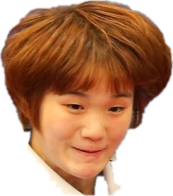
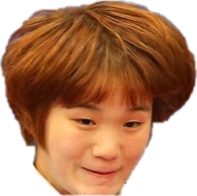
김민희: 너무 강력한 포핸드로 명칭 변경, 백핸드 얼굴 옷깃 제거, 포핸드 얼굴 위치/드라이브 자세 수정

diff --git a/index.html b/index.html
@@ -39,7 +39,7 @@ html,body{overscroll-behavior:none;touch-action:manipulation;-webkit-text-size-a
 <section id="su-p1"><h3 id="su-title">라켓을 고르세요</h3><div id="su-racket" class="su-opts"></div><div id="su-gear"><label>목판 <select id="su-blade"></select></label><label>러버 <select id="su-rubber"></select></label></div><p id="su-note"></p><div class="su-row"><button type="button" id="su-cancel" class="ghost">취소</button><button type="button" id="su-next">다음 →</button></div></section>
 <section id="su-p2" hidden><h3>상대 난이도를 고르세요</h3><div id="su-diff" class="su-opts"></div><div class="su-row"><button type="button" id="su-back" class="ghost">← 이전</button><button type="button" id="su-play">플레이 시작 ↗</button></div></section></dialog>
 <div id="overlay" class="overlay"><div class="start-card"><span class="pill">YOUR NEXT RALLY STARTS HERE</span><h2>잡고, 휘두르고,<br>넘겨보세요.</h2><p>공을 둘러싼 링이 줄어들어 라켓 크기 원에 딱 맞는 순간 스윙하세요.<br>공 오른쪽에서 스윙: 포핸드 (검정 러버)<br>공 왼쪽에서 스윙: 백핸드 (빨강 러버)<br>탭: 쇼트 (드라이브가 오면 블록) · 뜬 공에 스윙: 자동 스매시<br>내 서브: 탭으로 토스 → 떨어질 때 스윙</p><div id="char-pick" role="radiogroup" aria-label="캐릭터 선택"><button type="button" role="radio" data-char="jersey"><canvas width="96" height="96" aria-hidden="true"></canvas>휴고범</button><button type="button" role="radio" data-char="leesin"><canvas width="96" height="96" aria-hidden="true"></canvas>리신범</button><button type="button" role="radio" data-char="percival"><canvas width="96" height="96" aria-hidden="true"></canvas>퍼시벌</button><button type="button" role="radio" data-char="drunk"><canvas width="96" height="96" aria-hidden="true"></canvas>만취범</button><button type="button" role="radio" data-char="ajae"><canvas width="96" height="96" aria-hidden="true"></canvas>아재범</button><button type="button" role="radio" data-char="sleepy"><canvas width="96" height="96" aria-hidden="true"></canvas>꿀잠범</button><button type="button" role="radio" data-char="minhee"><canvas width="96" height="96" aria-hidden="true"></canvas>김민희</button></div><div id="rank-submit" hidden><div class="rank-row" hidden><input id="rank-name" maxlength="12" placeholder="닉네임 (12자)" autocomplete="nickname" aria-label="랭킹 닉네임"><button id="rank-send" type="button">랭킹 등록 🏆</button></div><small id="rank-msg" aria-live="polite"></small></div><div id="login-box"><button id="google-login" type="button"><svg viewBox="0 0 48 48" width="18" height="18" aria-hidden="true"><path fill="#EA4335" d="M24 9.5c3.5 0 6.6 1.2 9.1 3.6l6.8-6.8C35.8 2.5 30.3 0 24 0 14.6 0 6.6 5.4 2.7 13.3l7.9 6.1C12.5 13.6 17.8 9.5 24 9.5z"/><path fill="#4285F4" d="M46.1 24.6c0-1.6-.1-3.1-.4-4.6H24v9h12.4c-.5 2.9-2.2 5.3-4.6 6.9l7.4 5.7c4.3-4 6.9-9.9 6.9-17z"/><path fill="#FBBC05" d="M10.6 28.6c-.5-1.4-.8-3-.8-4.6s.3-3.2.8-4.6l-7.9-6.1C1 16.6 0 20.2 0 24s1 7.4 2.7 10.7l7.9-6.1z"/><path fill="#34A853" d="M24 48c6.5 0 11.9-2.1 15.9-5.8l-7.4-5.7c-2.1 1.4-4.8 2.3-8.5 2.3-6.2 0-11.5-4.1-13.4-9.9l-7.9 6.1C6.6 42.6 14.6 48 24 48z"/></svg>Google로 로그인</button><button id="naver-login" type="button" hidden><b>N</b> 네이버로 로그인</button><button id="google-logout" type="button" hidden>로그아웃</button><small id="login-status"></small></div><button id="resume" hidden>이어하기 <span>▶</span></button><button id="start">플레이 시작 <span>↗</span></button><div id="net-box"><input id="net-nick" hidden maxlength="12" placeholder="닉네임 (랭킹전 표시)" autocomplete="nickname" aria-label="닉네임"><small id="pvp-me"></small><button id="net-quick" type="button">빠른 매칭 🎲</button><button id="net-host" type="button">온라인 방 만들기 <span>⇄</span></button><div class="net-join"><input id="net-code" maxlength="4" placeholder="방 코드" autocomplete="off" autocapitalize="characters" aria-label="방 코드"><button id="net-join" type="button">참가</button></div><small id="net-status" aria-live="polite">빠른 매칭: 방 목록에서 방을 고르거나 직접 만들어요 · 친구와는 방 코드로</small></div><small>손가락 또는 마우스로 플레이 · 일시정지 버튼 / Space</small></div></div><div id="toast" class="toast">링이 라켓 크기 원에 딱 맞는 순간 스윙하세요</div></div><div class="timing-legend" aria-label="공 테두리원 타이밍 안내"><span><i class="ring wait"></i> WAIT · 링이 줄어드는 중</span><span><i class="ring ready"></i> READY · 타격 가능</span><span><i class="ring ideal"></i> 지금! · 링 = 라켓 크기</span><span><i class="ring fh"></i> 포핸드</span><span><i class="ring bh"></i> 백핸드</span></div><div class="touch-toolbar"><p>손가락 위에 라켓이 표시됩니다 · 드래그 스윙</p><span id="touch-special" aria-live="polite">✦ 필살기 0%</span></div><div class="arena-bottom"><div><span class="keycap">DRAG</span> 스윙</div><div><span class="keycap">SPACE</span> 일시정지</div><button id="fullscreen" type="button">⛶ 전체화면</button><button id="exit-fullscreen" type="button" hidden>전체화면 해제</button><button id="home" hidden>⌂ 처음 화면</button><button id="restart">↻ 다시 시작</button></div></section>
-<aside><section class="control-card"><div class="eyebrow">SESSION SETTINGS</div><h3>나만의 리듬 찾기</h3><div class="segmented" aria-label="게임 모드"><button data-mode="practice">연습 랠리</button><button data-mode="match" class="active">11점 경기</button><button data-mode="doubles">복식</button><button data-mode="boss">보스전</button><button data-mode="cutman">커트맨 봇전</button></div><label class="field">상대 난이도 <select id="difficulty"><option value="b7">7부 · 여유로운 템포</option><option value="b6">6부 · 가볍게 랠리</option><option value="b5">5부 · 리듬 있는 랠리</option><option value="b4" selected>4부 · 공격이 섞이는 랠리</option><option value="b3">3부 · 빠른 랠리</option><option value="b2">2부 · 코스를 찌르는 상대</option><option value="b1">1부 · 거의 다 받아치는 상대</option><option value="pro">선수부 · 최강</option></select></label><div class="char-card"><canvas id="char-face" width="224" height="224" aria-hidden="true"></canvas><b id="char-name">휴고범</b></div><label class="field">내 캐릭터 <select id="character"><option value="jersey" selected>휴고범 · 백핸드 강타 / 포핸드 실수 주의</option><option value="leesin">리신범 · 포핸드 강타 / 백핸드 실수 주의</option><option value="percival">퍼시벌 · 왼손잡이 · 까다로운 서브 · 점수마다 능력 ±10% (50%)</option><option value="drunk">만취범 · 괴력 5% ×2 · 25% ×1.5 · 15% ×1.2 · 10% 붕 뜬 공</option><option value="ajae">아재범 · 우기기 (나간 공 10% 엣지 판정)</option><option value="sleepy">꿀잠범 · 잠자기: 3점마다 꿀잠 +10% / 악몽 −10%</option><option value="minhee">김민희 · 포핸드 도박: 재끼기 10% · ×1.3 20% · 라켓 파손 10%</option><option value="plain">파란 선수</option></select></label><label class="field">내 라켓 <select id="racket"><option value="shake" selected>쉐이크핸드 · 백핸드 드라이브</option><option value="cpen">중국식 펜홀더 · 빠른 손목</option><option value="jpen">일본식 펜홀더 · 강한 한 방</option><option value="defense">수비수 라켓 · 모든 공을 커트로</option></select></label><div id="gear" class="gear"><label class="field">목판 <select id="blade"><option value="ply">합판 · 안정적</option><option value="inner">이너 카본 · 회전</option><option value="outer">아우터 카본 · 속도</option></select></label><label class="field">러버 <select id="rubber"><option value="spin">09C · 회전 ↑↑ · 속도 ↓</option><option value="speed">05 · 속도 ↑↑ · 컨트롤 어려움</option><option value="control">64 · 컨트롤 좋음</option><option value="pips">SP 숏핌플 · 속도 ×1.3 · 회전 적음</option></select></label></div><div class="help-note" id="racket-note"></div><div class="apply-row"><small id="pending-note" hidden>변경사항이 있어요 · 적용을 눌러야 바뀝니다</small><button id="apply-settings" type="button" disabled>설정 적용</button></div><div class="help-note">연습 모드는 리턴이 쉬워지고,<br>경기 모드는 11점 · 2점 차로 승리합니다.</div></section><section class="swing-card"><div class="eyebrow">LIVE SWING DATA <i class="live-dot"></i></div><div class="shot-name" id="shot">READY<span id="shot-sub">첫 스윙을 기다리는 중</span></div><div class="meter-label"><span>스윙 속도</span><b id="speed">0 <small>px/s</small></b></div><div class="meter"><i id="meter"></i></div><div class="metrics"><div><span>타이밍</span><b id="timing">—</b></div><div><span>회전</span><b id="spin">—</b></div></div><div class="special"><div class="meter-label"><span id="special-name">✦ 초승달 드라이브</span><b id="special-value">0%</b></div><div class="meter special-meter" aria-hidden="true"><i id="special-fill"></i></div><p id="special-status" aria-live="polite">성공 +20% · PERFECT +30%</p><small>게이지가 100%가 되면<br>다음 타격에 자동으로 발동합니다</small></div><div class="rally"><span>현재 랠리 <b id="rally">0</b></span><span>최고 <b id="best">0</b></span></div></section><div class="tip"><span>↗ COACH'S NOTE</span><p id="coach">공이 내 코트에 한 번 튄 뒤, 내 쪽 끝선을 넘어올 때까지 기다리세요. 공 오른쪽은 포핸드(검정), 왼쪽은 백핸드(빨강)입니다.</p></div></aside></div>
+<aside><section class="control-card"><div class="eyebrow">SESSION SETTINGS</div><h3>나만의 리듬 찾기</h3><div class="segmented" aria-label="게임 모드"><button data-mode="practice">연습 랠리</button><button data-mode="match" class="active">11점 경기</button><button data-mode="doubles">복식</button><button data-mode="boss">보스전</button><button data-mode="cutman">커트맨 봇전</button></div><label class="field">상대 난이도 <select id="difficulty"><option value="b7">7부 · 여유로운 템포</option><option value="b6">6부 · 가볍게 랠리</option><option value="b5">5부 · 리듬 있는 랠리</option><option value="b4" selected>4부 · 공격이 섞이는 랠리</option><option value="b3">3부 · 빠른 랠리</option><option value="b2">2부 · 코스를 찌르는 상대</option><option value="b1">1부 · 거의 다 받아치는 상대</option><option value="pro">선수부 · 최강</option></select></label><div class="char-card"><canvas id="char-face" width="224" height="224" aria-hidden="true"></canvas><b id="char-name">휴고범</b></div><label class="field">내 캐릭터 <select id="character"><option value="jersey" selected>휴고범 · 백핸드 강타 / 포핸드 실수 주의</option><option value="leesin">리신범 · 포핸드 강타 / 백핸드 실수 주의</option><option value="percival">퍼시벌 · 왼손잡이 · 까다로운 서브 · 점수마다 능력 ±10% (50%)</option><option value="drunk">만취범 · 괴력 5% ×2 · 25% ×1.5 · 15% ×1.2 · 10% 붕 뜬 공</option><option value="ajae">아재범 · 우기기 (나간 공 10% 엣지 판정)</option><option value="sleepy">꿀잠범 · 잠자기: 3점마다 꿀잠 +10% / 악몽 −10%</option><option value="minhee">김민희 · 너무 강력한 포핸드: 재끼기 10% · ×1.3 20% · 라켓 파손 10%</option><option value="plain">파란 선수</option></select></label><label class="field">내 라켓 <select id="racket"><option value="shake" selected>쉐이크핸드 · 백핸드 드라이브</option><option value="cpen">중국식 펜홀더 · 빠른 손목</option><option value="jpen">일본식 펜홀더 · 강한 한 방</option><option value="defense">수비수 라켓 · 모든 공을 커트로</option></select></label><div id="gear" class="gear"><label class="field">목판 <select id="blade"><option value="ply">합판 · 안정적</option><option value="inner">이너 카본 · 회전</option><option value="outer">아우터 카본 · 속도</option></select></label><label class="field">러버 <select id="rubber"><option value="spin">09C · 회전 ↑↑ · 속도 ↓</option><option value="speed">05 · 속도 ↑↑ · 컨트롤 어려움</option><option value="control">64 · 컨트롤 좋음</option><option value="pips">SP 숏핌플 · 속도 ×1.3 · 회전 적음</option></select></label></div><div class="help-note" id="racket-note"></div><div class="apply-row"><small id="pending-note" hidden>변경사항이 있어요 · 적용을 눌러야 바뀝니다</small><button id="apply-settings" type="button" disabled>설정 적용</button></div><div class="help-note">연습 모드는 리턴이 쉬워지고,<br>경기 모드는 11점 · 2점 차로 승리합니다.</div></section><section class="swing-card"><div class="eyebrow">LIVE SWING DATA <i class="live-dot"></i></div><div class="shot-name" id="shot">READY<span id="shot-sub">첫 스윙을 기다리는 중</span></div><div class="meter-label"><span>스윙 속도</span><b id="speed">0 <small>px/s</small></b></div><div class="meter"><i id="meter"></i></div><div class="metrics"><div><span>타이밍</span><b id="timing">—</b></div><div><span>회전</span><b id="spin">—</b></div></div><div class="special"><div class="meter-label"><span id="special-name">✦ 초승달 드라이브</span><b id="special-value">0%</b></div><div class="meter special-meter" aria-hidden="true"><i id="special-fill"></i></div><p id="special-status" aria-live="polite">성공 +20% · PERFECT +30%</p><small>게이지가 100%가 되면<br>다음 타격에 자동으로 발동합니다</small></div><div class="rally"><span>현재 랠리 <b id="rally">0</b></span><span>최고 <b id="best">0</b></span></div></section><div class="tip"><span>↗ COACH'S NOTE</span><p id="coach">공이 내 코트에 한 번 튄 뒤, 내 쪽 끝선을 넘어올 때까지 기다리세요. 공 오른쪽은 포핸드(검정), 왼쪽은 백핸드(빨강)입니다.</p></div></aside></div>
 <section class="techniques"><div class="tech-heading"><h3>방향과 박자로 완성하는, 여덟 가지 플레이.</h3><span>드래그 속도가 스윙의 강도를 결정합니다</span></div><div class="tech-grid">
 <article><span class="tech-icon">↖</span><div><b>루프 드라이브</b><small>공 오른쪽 아래에서 위로 쓸기</small></div><span class="tech-number">01</span></article>
 <article><span class="tech-icon">↗</span><div><b>백드라이브</b><small>공 왼쪽 아래에서 위로 쓸기</small></div><span class="tech-number">02</span></article>
@@ -189,7 +189,7 @@ ajae:{name:'아재범',nick:'아재범',kit:{name:'AJAE',color:'#9fb4ff'},face:'
 // sweatshirt; grey sweatpants. Little z's float up from him; every 3 points he naps - a sweet dream lifts him, a nightmare drags him down.
 sleepy:{name:'꿀잠범',nick:'꿀잠범',kit:{name:'KKULJAM',color:'#bfe3ff'},face:'sleepy',faceFit:{h:54,b:25,cx:.56},sleepy:true,ceremony:'Zzz… 음냐… 들어갔어? 😴',split:true,stanceK:1.05,crouchK:.08,shirt:'#17171b',sleeve:'#17171b',longSleeve:true,collar:'#0d0d10',pants:'#5d606a',hair:'#17110d',skin:'#e9bf9e',skinShade:'#cc9a7a'},
 // 김민희, from the user's three reference photos (backhand / serve / forehand): copper bob, light-blue polo, navy skort. Drawn in the game's own style.
-minhee:{jaetgi:true,name:'김민희',nick:'김민희',kit:{name:'MINHEE',color:'#9cc9f5'},face:'minhee',faceFit:{h:46,b:24,cx:.5},faces:{serve:'minheeS',fh:'minheeF'},faceFits:{serve:{h:46,b:24,cx:.42},fh:{h:46,b:24,cx:.45}},ceremony:'나이스!! 🏓',split:true,stanceK:1.2,crouchK:.16,strokes:'minhee',serveMotion:true,watchBall:true,balance:true,bob:true,shirt:'#9cc3ec',sleeve:'#9cc3ec',collar:'#ffffff',pants:'#18233f',shorts:true,shortsLen:.55,hair:'#b8582b',skin:'#f3d1b0',skinShade:'#d9ab88'},
+minhee:{jaetgi:true,name:'김민희',nick:'김민희',kit:{name:'MINHEE',color:'#9cc9f5'},face:'minhee',faceFit:{h:46,b:18,cx:.5},faces:{serve:'minheeS',fh:'minheeF'},faceFits:{serve:{h:46,b:24,cx:.42},fh:{h:46,b:24,cx:.34}},ceremony:'나이스!! 🏓',split:true,stanceK:1.2,crouchK:.16,strokes:'minhee',serveMotion:true,deep:1.9,watchBall:true,balance:true,bob:true,shirt:'#9cc3ec',sleeve:'#9cc3ec',collar:'#ffffff',pants:'#18233f',shorts:true,shortsLen:.55,hair:'#b8582b',skin:'#f3d1b0',skinShade:'#d9ab88'},
 // 탁구 마왕: opponent-only boss for 보스전. Drawn, no photo: horns, glowing red eyes, a blood-red cape and a dark aura.
 boss:{name:'탁구 마왕',nick:'탁구 마왕',kit:{name:'MAWANG',color:'#ff3b3b'},boss:true,serveEdge:.25,taunts:['크하하! 나약하다!','이것이 마왕의 탁구다!','무릎 꿇어라!'],stanceK:1.2,crouchK:.1,shirt:'#1c0a16',sleeve:'#1c0a16',longSleeve:true,collar:'#ff3b3b',pants:'#12070f',skin:'#a07c8a',skinShade:'#7a5866',hair:'#0b0508'},
 plain:{name:'파란 선수',shirt:'#2f6fd6',sleeve:'#2f6fd6',pants:'#33404f',hair:'#3a2b22'},
@@ -272,7 +272,7 @@ function beep(freq=420){if(!sound)return;try{audio||=new (window.AudioContext||w
 function toast(message,duration=1.5){$('toast').textContent=message;toastUntil=time+duration;}
 function reset(){for(const st of [me,foe]){delete st.ceremT;delete st.taunt;delete st.cheerT;}you=cpu=rally=0;matchBest=0;$('rank-submit').hidden=true;ball=null;wait=.65;trail=[];fx=[];lastHit=lastAIHit=-10;charge=0;lastTap=null;smashUntil=-1;swingMemory=null;release();updateSpecial();$('shot').firstChild.textContent='READY';$('shot-sub').textContent='첫 스윙을 기다리는 중';$('timing').textContent='—';$('spin').textContent='—';updateScore();}
 function updateScore(){matchBest=mode==='cutman'?0:Math.max(matchBest,rally);keepPending();$('you').textContent=String(you).padStart(2,'0');$('cpu').textContent=String(cpu).padStart(2,'0');$('rally').textContent=rally;$('best').textContent=best;store.set('best',best);}
-function begin(){if(!net&&!loginGate())return;if(playing&&!net&&matchBest>0)offerRank(true);reset();matchId=Date.now().toString(36)+Math.random().toString(36).slice(2,8);rollGear();me.mood=foe.mood=0;me.sadT=foe.sadT=null;if(!net){aiChar=mode==='boss'?(Math.random()<.5?'boss':'minhee'):mode==='cutman'?'plain':pickAi();$('cpu-name').textContent=mode==='cutman'?'AI 커트맨':bossMin()?'AI 김민희 (보스)':'AI '+LOOKS[aiChar].nick;if(mode==='doubles'){const other=c=>AI_CHARS.filter(k=>k!==c);mateChar=other(charType)[Math.random()*2|0]||'plain';const f2=other(aiChar);foe2Char=f2.find(k=>k!==mateChar&&k!==charType)||f2[Math.random()*2|0];$('cpu-name').textContent='AI '+LOOKS[aiChar].nick+' · '+LOOKS[foe2Char].nick;}}mate.x=foe2.x=null;clearSave();$('resume').hidden=true;$('home').hidden=false;playing=true;paused=false;down=false;updateSpecial();$('overlay').classList.add('hidden');$('pause').disabled=false;$('pause').textContent='일시정지 Ⅱ';if(!net)setTimeout(()=>{if(playing)napTick();},1800);toast(mode==='cutman'&&!net?'✂ 커트맨 봇전 · 서브는 항상 두 번 튀는 짧은 커트! 두 번째 바운드 전에 테이블 위에서 쳐요':bossMin()?'👑 보스 김민희 등장! 어떤 공도 95% 받아내요 · 포핸드/백핸드 모두 재끼기 · 라켓 파손 도박':mode==='boss'&&!net?`😈 탁구 마왕 등장! 내가 ${BOSS.rage}점을 따면 분노해요`:'링이 라켓 크기 원에 딱 맞는 순간 스윙하세요!',3);lockPage(true);}
+function begin(){if(!net&&!loginGate())return;if(playing&&!net&&matchBest>0)offerRank(true);reset();matchId=Date.now().toString(36)+Math.random().toString(36).slice(2,8);rollGear();me.mood=foe.mood=0;me.sadT=foe.sadT=null;if(!net){aiChar=mode==='boss'?(Math.random()<.5?'boss':'minhee'):mode==='cutman'?'plain':pickAi();$('cpu-name').textContent=mode==='cutman'?'AI 커트맨':bossMin()?'AI 김민희 (보스)':'AI '+LOOKS[aiChar].nick;if(mode==='doubles'){const other=c=>AI_CHARS.filter(k=>k!==c);mateChar=other(charType)[Math.random()*2|0]||'plain';const f2=other(aiChar);foe2Char=f2.find(k=>k!==mateChar&&k!==charType)||f2[Math.random()*2|0];$('cpu-name').textContent='AI '+LOOKS[aiChar].nick+' · '+LOOKS[foe2Char].nick;}}mate.x=foe2.x=null;clearSave();$('resume').hidden=true;$('home').hidden=false;playing=true;paused=false;down=false;updateSpecial();$('overlay').classList.add('hidden');$('pause').disabled=false;$('pause').textContent='일시정지 Ⅱ';if(!net)setTimeout(()=>{if(playing)napTick();},1800);toast(mode==='cutman'&&!net?'✂ 커트맨 봇전 · 서브는 항상 두 번 튀는 짧은 커트! 두 번째 바운드 전에 테이블 위에서 쳐요':bossMin()?'👑 보스 김민희 등장! 어떤 공도 95% 받아내요 · 포핸드/백핸드 모두 재끼기 · 라켓 파손':mode==='boss'&&!net?`😈 탁구 마왕 등장! 내가 ${BOSS.rage}점을 따면 분노해요`:'링이 라켓 크기 원에 딱 맞는 순간 스윙하세요!',3);lockPage(true);}
 // Doubles (복식) vs AI: me + AI partner against two AIs. Each side's players must hit in turn; every serve goes
 // diagonally from the server's right half to the receiver's right half; within each team the server (and my team's
 // receiver) changes every time the serve comes round.
@@ -318,7 +318,7 @@ const TAUNTS=['흠.. 그정돈가?','냐옹냐옹~','풉키 풉키!'];
 // 보스전: the boss plays above 선수부 and casts one of three skills on some returns. From my 6th point on it is enraged
 // (phase 2): every return 10% faster and skills twice as often.
 const BOSS={rage:6,cast:[.15,.3],speed:1.1};
-// 보스 김민희: the boss match is vs 탁구 마왕 or 김민희 (50/50). Boss 김민희 returns every ball 95% of the time and gambles on BOTH wings.
+// 보스 김민희: the boss match is vs 탁구 마왕 or 김민희 (50/50). Boss 김민희 returns every ball 95% of the time and uses her power-forehand roll on BOTH wings.
 const bossMin=()=>mode==='boss'&&!net&&aiChar==='minhee';
 let shakeT=-10;
 const aiDif=()=>mode==='boss'&&!net?'boss':difficulty;   // the boss plays its own level; the chosen difficulty stays untouched
@@ -454,8 +454,9 @@ back:[[-8,16,-.8,.6,-.3],[24,-4,.08,.5,0],[50,-40,.7,.3,.5]]};LEE_STROKES.cresce
 // then pushed out low across the body at full reach with the torso leaning in (free hand up by the head); serve = racket held at the chest
 // while she watches the ball, then a short compact brush through it.
 const MINHEE_STROKES={
-loop:[[62,48,1.5,1,1.2],[52,8,.8,.85,.3],[6,-54,-.45,.5,-1.1]],
-drive:[[60,30,1.35,.95,1.1],[50,-2,.6,.8,.2],[2,-46,-.3,.55,-.95]],
+loop:[[64,40,1.55,1,1.25],[52,4,.85,.9,.35],[4,-58,-.45,.55,-1.15]],
+// forehand drive as in the photo: deep lunge, racket arm swung out wide behind at head height, free arm thrown out the other way, then across and up
+drive:[[66,-34,1.5,1,1.3],[50,-18,.9,.95,.5],[6,-60,-.4,.6,-1.15]],
 back:[[-14,26,-1,.8,-.5],[30,4,.1,.75,0],[54,-4,.55,.65,.5]],
 cut:[[12,-4,.9,.5,.15],[30,10,.85,.6,0],[46,14,.7,.65,-.25]],
 serveCut:[[8,-2,.6,.5,.15],[34,12,.8,.6,0],[50,18,.65,.62,-.3]],
@@ -542,7 +543,7 @@ if(squat){pose.target={x:x+arm*32*s,y:hipY+(st.legLen||30*s*T)*.5-122*s*T};pose.
 const sadT=st.sadT!=null?performance.now()/1000-st.sadT:-1,sad=sadT>=0;
 if(sad){pose.target={x:x+side*34*s,y:hipY+(st.legLen||30*s*T)*.8};pose.angle=side*1.35;pose.crouch=1;pose.twist=0;}
 if(look.watchBall&&(st.holding||st.tossing)&&prep==null&&!(since>=0&&since<.8)&&!sad&&cheer<0&&!squat){pose.target={x:x+arm*10*s,y:hipY-36*s*T+st.crouch*18*s};pose.angle=arm*.55;pose.crouch=.45;pose.twist=.25;}   // serve stance: racket at the chest
-const cr=pose.crouch,stepping=st.feet?Math.max(...[-1,1].map(k=>st.feet[k].t<1?Math.sin(Math.PI*st.feet[k].t):0)):0,split=look.split&&st.splitT!=null&&time-st.splitT<.24?Math.sin(Math.PI*(time-st.splitT)/.24):0,bob=look.split&&!stepping&&!split&&!(since>=0&&since<.8)?Math.sin(time*7)*1.2*s:0,hop=stepping*3*s+split*8*s+bob+(squat?0:Math.max(0,cheer)*12*s),hy=hipY+cr*18*s-hop+Math.abs(st.lean||0)*10*s+(sad?(st.legLen||30*s*T)*.45+Math.sin(sadT*14)*1.5*s:0)+(squat?(st.legLen||30*s*T)*.5:0),cx=x+dir*moving*6*s+pose.twist*side*8*s,ground=hipY+(st.legLen||30*s*T);
+const cr=pose.crouch,stepping=st.feet?Math.max(...[-1,1].map(k=>st.feet[k].t<1?Math.sin(Math.PI*st.feet[k].t):0)):0,split=look.split&&st.splitT!=null&&time-st.splitT<.24?Math.sin(Math.PI*(time-st.splitT)/.24):0,bob=look.split&&!stepping&&!split&&!(since>=0&&since<.8)?Math.sin(time*7)*1.2*s:0,hop=stepping*3*s+split*8*s+bob+(squat?0:Math.max(0,cheer)*12*s),hy=hipY+cr*18*s*(look.deep||1)-hop+Math.abs(st.lean||0)*10*s+(sad?(st.legLen||30*s*T)*.45+Math.sin(sadT*14)*1.5*s:0)+(squat?(st.legLen||30*s*T)*.5:0),cx=x+dir*moving*6*s+pose.twist*side*8*s,ground=hipY+(st.legLen||30*s*T);
 // Lunge: when the racket has to reach past the body, sink lower, widen the stance (stepBody reads st.lean) and lean the upper body toward it.
 const lean=P.clamp((pose.target.x-cx-side*40*s)/(70*s),-1,1);st.lean=lerp(st.lean||0,lean,.25);const ux=cx+st.lean*12*s;
 // Arm of fixed length (upper arm + forearm): the hand goes toward the racket target but never further than the arm reaches,
@@ -558,7 +559,7 @@ const aura=st.aura||look.boss&&(bossRage()?'255,110,0':'190,20,70');if(aura){con
 ctx.beginPath();ctx.ellipse(x,ground+2*s,(32+cr*8)*s,6*s,0,0,Math.PI*2);ctx.fillStyle='#00000060';ctx.fill();
 if(look.boss){const wv=Math.sin(time*3)*4*s;ctx.beginPath();ctx.moveTo(ux-17*s,hy-58*s*T);ctx.lineTo(ux+17*s,hy-58*s*T);ctx.quadraticCurveTo(ux+30*s,hy,ux+36*s+wv,ground-6*s);ctx.lineTo(ux-36*s+wv,ground-6*s);ctx.quadraticCurveTo(ux-30*s,hy,ux-17*s,hy-58*s*T);ctx.fillStyle='#7a0f1e';ctx.fill();ctx.strokeStyle='#ff3b3b';ctx.lineWidth=1.5*s;ctx.stroke();}   // boss cape
 for(const k of (st.feet&&st.feet[1].t<1?[-1,1]:[1,-1])){
-const f=st.feet?st.feet[k]:{x:x+k*(17+cr*12)*s,t:1},lift=f.t<1?Math.sin(Math.PI*f.t)*7*s:0;
+const f=st.feet?st.feet[k]:{x:x+k*(17+cr*12*(look.deep||1))*s,t:1},lift=f.t<1?Math.sin(Math.PI*f.t)*7*s:0;
 const foot={x:f.x+k*split*4*s,y:ground-lift-split*5*s},hip={x:cx+k*8*s,y:hy},knee={x:(hip.x+foot.x)/2+k*(2+cr*8)*s,y:(hip.y+foot.y)/2+cr*2*s-lift*.3};
 if(look.shorts){line(hip,knee,skin,7*s);line(knee,foot,skin,6.5*s);const sl=look.shortsLen||.6;line(hip,{x:lerp(hip.x,knee.x,sl),y:lerp(hip.y,knee.y,sl)},pants,(11+(sl-.6)*8)*s);}
 else{line(hip,knee,pants,8*s);line(knee,foot,pants,7*s);}if(look.socks)line({x:lerp(knee.x,foot.x,.78),y:lerp(knee.y,foot.y,.78)},foot,'#f7f7f4',7*s);ctx.beginPath();ctx.ellipse(foot.x+k*3*s,foot.y+1*s,9*s,4*s,0,0,Math.PI*2);ctx.fillStyle='#f4f1e6';ctx.fill();if(look.socks){ctx.strokeStyle='#c9c9c4';ctx.lineWidth=.9*s;ctx.stroke();}}
@@ -797,7 +798,7 @@ if(trait&&verdict==='ok'&&!special&&!shot.chance&&!flair){const roll=Math.random
 if(playerSide*fhDir()===trait.weak&&roll<TRAIT_ERR){shot=P.miss(shot,ball.y,ball.z,Math.random()<.5?'net':'over');flair='err';}
 else if(playerSide*fhDir()===trait.strong&&roll<TRAIT_POWER){shot=P.power(shot,ball.y,ball.z,TRAIT_MULT);if(shot.power)flair='power';}}
 if(LOOKS[charType].drunk&&verdict==='ok'&&!special&&!shot.chance&&!flair){const tier=drunkTier(Math.random());if(tier==='float'){shot=P.popup(shot,ball.y,ball.z);flair='drunkMiss';}else if(tier>1){drunkM=tier;shot={...P.power(shot,ball.y,ball.z,tier),spin:shot.spin*tier,power:true};flair='drunkPower';}}
-// 김민희's forehand: 10% 공 재끼기 (cannot be returned = her point, 쵸레이~), 20% x1.3 speed and spin, 10% the racket breaks (her point lost), 60% normal
+// 김민희's 너무 강력한 포핸드: 10% 공 재끼기 (cannot be returned = her point, 쵸레이~), 20% x1.3 speed and spin, 10% the racket breaks (her point lost), 60% normal
 if(LOOKS[charType].jaetgi&&verdict==='ok'&&!special&&!shot.chance&&!flair&&playerSide*fhDir()>0){const roll=Math.random();
 if(roll<.1){shot=P.power(shot,ball.y,ball.z,1.5);flair='jaetgi';}else if(roll<.3){shot={...P.power(shot,ball.y,ball.z,1.3),spin:shot.spin*1.3,power:true};flair='minheePower';}else if(roll<.4)flair='break';}
 const driveK=verdict==='ok'&&!special&&!flair&&!shot.chance&&P.family(shot.type)==='drive'?DRIVE_BY_TIMING[quality]:null;
@@ -998,7 +999,7 @@ percival:{tag:'왼손잡이 · 까다로운 서브',rows:[['plus','서브','내 
 drunk:{tag:'회식 끝나고 바로 온 직장인 · 늘 비틀비틀',rows:[['info','45%','보통 공'],['plus','5%','만취 괴력: 공 속도 · 회전 ×2 💥'],['plus','25%','공 속도 · 회전 ×1.5'],['plus','15%','공 속도 · 회전 ×1.2'],['minus','10%','공이 붕 떠서 상대가 스매시할 수 있는 찬스볼'],['perf','PERFECT','"남자는 원샷~! 🍺" + 크게 휘청']]},
 ajae:{tag:'동호회 20년 차 · 백팩 멘 아재',rows:[['plus','우기기','내 공이 아웃되면 10% 확률로 "죄송해요~ 엣지네요 🙏" → 내 점수'],['perf','PERFECT','"아닌데? 아닌데? 🤨"']]},
 sleepy:{tag:'어디서든 잘 자는 사람 · 머리 위로 z z z',rows:[['info','잠자기','경기 시작과 3점마다 잠을 자요'],['plus','꿀잠 50%','3점 동안 모든 능력치 +10% ✨'],['minus','악몽 50%','3점 동안 모든 능력치 −10% 💀'],['perf','PERFECT','"Zzz… 음냐… 들어갔어? 😴"']]},
-minhee:{tag:'낮게 파고드는 풋워크 · 구리빛 단발 · 하늘색 폴로',rows:[['info','포핸드 60%','보통 공'],['plus','포핸드 10%','공 재끼기: 상대가 받을 수 없는 공 → 득점 + "쵸레이~" 🔥'],['plus','포핸드 20%','공 속도 · 회전 ×1.3'],['minus','포핸드 10%','너무 세게 쳐서 라켓이 깨져 실점 💥'],['perf','PERFECT','포핸드 드라이브 "김민희 드라이브!" · 스매싱 "김민희 스매싱!" · 쇼트 "김민희 쇼트!" · 백드라이브 "김민희 백드라이브!"']]}};
+minhee:{tag:'너무 강력한 포핸드 · 구리빛 단발 · 하늘색 폴로',rows:[['info','포핸드 60%','보통 공'],['plus','포핸드 10%','공 재끼기: 상대가 받을 수 없는 공 → 득점 + "쵸레이~" 🔥'],['plus','포핸드 20%','공 속도 · 회전 ×1.3'],['minus','포핸드 10%','너무 세게 쳐서 라켓이 깨져 실점 💥'],['perf','PERFECT','포핸드 드라이브 "김민희 드라이브!" · 스매싱 "김민희 스매싱!" · 쇼트 "김민희 쇼트!" · 백드라이브 "김민희 백드라이브!"']]}};
 let ciChar=null;
 function showCharInfo(k){const L=LOOKS[k],I=CHAR_INFO[k];if(!L||!I){setCharacter(k);markPending();return;}ciChar=k;drawFace($('ci-face'),L);$('ci-name').textContent=L.nick||L.name;$('ci-tag').textContent=I.tag;
 const ul=$('ci-list');ul.textContent='';for(const [cls,lab,txt] of I.rows){const li=document.createElement('li'),b=document.createElement('b'),sp=document.createElement('span');li.className=cls;b.textContent=lab;sp.textContent=txt;li.append(b,sp);ul.append(li);}

diff --git a/README.md b/README.md
@@ -385,6 +385,12 @@
 
 최신 순. 버전 옆 코드를 누르면 해당 변경 내용을 볼 수 있습니다.
 
+### v2.60 — 김민희: 너무 강력한 포핸드 · 사진 얼굴 다듬기 · 포핸드 드라이브 자세 · 2026-10-17
+- 특성 이름을 **'너무 강력한 포핸드'** 로 변경 (확률은 그대로: 재끼기 10% · ×1.3 20% · 보통 60% · 라켓 파손 10%)
+- **백핸드(기본) 얼굴 사진**에서 옷깃(목티처럼 보이던 부분)을 완전히 제거 — 턱선에서 끝나도록 다시 오림
+- **포핸드 얼굴 사진**을 오른쪽으로 옮겨 얼굴이 머리 한가운데 오도록 위치 조정
+- **포핸드 드라이브 자세**를 사진처럼: 무릎을 깊이 굽히고 다리를 넓게 벌린 런지, 라켓 팔은 머리 높이로 크게 뒤로 빼고 반대 팔을 옆으로 뻗은 뒤 몸 앞을 가로질러 위로 마무리
+
 ### v2.59 — 보스전에 보스 김민희 등장 · 2026-10-17
 - 보스전 상대가 **탁구 마왕 또는 보스 김민희 (50% : 50%)** 로 정해짐 · 점수판에 "AI 김민희 (보스)"
 - 보스 김민희는 **포핸드 · 백핸드 모두**: 10% 공 재끼기(내가 받을 수 없음 → 상대 득점, "쵸레이~") · 20% 속도 · 회전 ×1.3 · 60% 보통 · 10% 너무 세게 쳐서 라켓이 깨져 **내 득점**
@@ -392,7 +398,7 @@
 - 확인: 4000번 시뮬레이션에서 받아냄 95.4% · 재끼기 포핸드/백핸드 쪽 모두 발동
 - 마왕전의 분노(2페이즈)는 마왕에게만 적용
 
-### v2.58 — 김민희 특성: 포핸드 도박 + PERFECT 외침 · 2026-10-17
+### v2.58 — 김민희 특성: 너무 강력한 포핸드 + PERFECT 외침 · 2026-10-17
 - **포핸드를 칠 때마다**: **10% 공 재끼기**(상대가 받을 수 없는 공 → 무조건 득점, "쵸레이~ 🔥") · **20% 속도 · 회전 ×1.3** · **60% 보통 공** · **10% 너무 세게 쳐서 라켓이 깨져 실점** 💥
 - **PERFECT로 맞추면 기술 이름을 외침**: 포핸드 드라이브 "김민희 드라이브!" · 스매싱 "김민희 스매싱!" · 쇼트(블록) "김민희 쇼트!" · 백핸드 드라이브 "김민희 백드라이브!"
 - AI 김민희도 포핸드 쪽에서 같은 확률로 발동 (재끼기는 내가 칠 수 없고, 라켓이 깨지면 내 득점)
